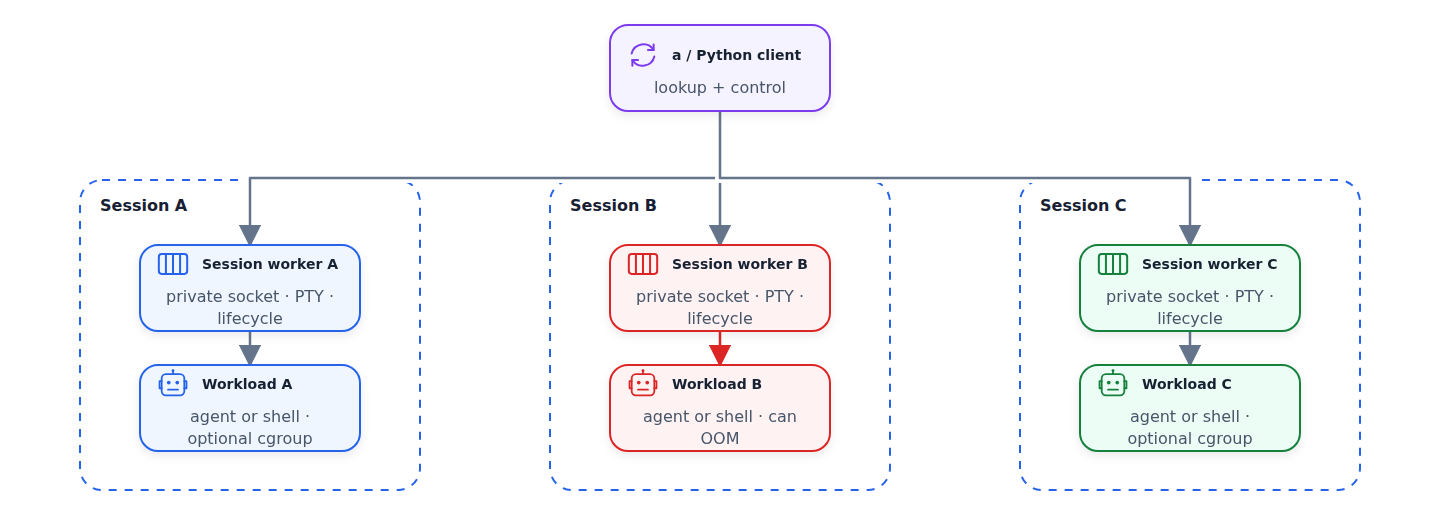
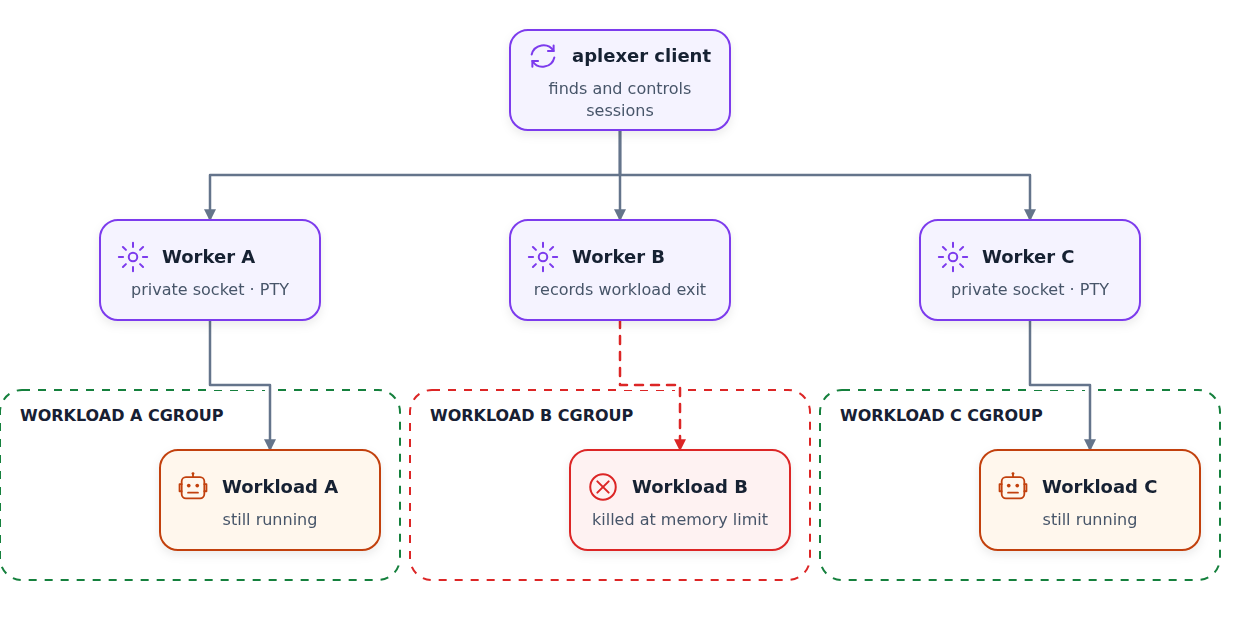
Save author-restored aplexer article draft

diff --git a/articles/work-in-progress/why-did-i-create-my-own-terminal-multiplexer.md b/articles/work-in-progress/why-did-i-create-my-own-terminal-multiplexer.md
@@ -10,16 +10,16 @@ status: draft
 
 tmux is a terminal multiplexer that I use to run agents on a remote machine. I wrote about using it in my article [The System I Built to Ship Code From a Phone](https://aishippingblog.com/p/the-system-i-built-to-ship-code-from).
 
-When you connect to a remote machine with ssh, the processes you launch are bound to your ssh session. That means when you disconnect, or the connection drops, the processes die together with the session. 
+When you connect to a remote machine with SSH, the processes you launch are bound to your SSH session. That means when you disconnect, or the connection drops, the processes die together with the session. 
 
-A terminal multiplexer is a tool that detaches the processes you start from the ssh session, so they can keep running after the disconnect. Screen and tmux are the most well-known terminal multiplexers, but tmux is more modern and generally preferred among developers. 
+A terminal multiplexer is a tool that detaches the processes you start from the SSH session, so they can keep running after the disconnect. Screen and tmux are the most well-known terminal multiplexers, but tmux is more modern and generally preferred among developers. 
 
-I've used tmux for ages but with agents running 24/7 on my remote dev box, it no longer works for me. To replace it, I created [aplexer](https://github.com/alexeygrigorev/aplexer). In this article I'll tell you why. 
+I've used tmux for ages, but with agents running 24/7 on my remote dev box, it no longer works for me. To replace it, I created [aplexer](https://github.com/PocketShell-io/aplexer). In this article I'll tell you why.
 
 In particular, we'll cover:
 
 - What tmux is and how it works
-- Advantages and disadvantages of tmux 
+- Advantages and disadvantages of tmux
 - My tool tmuxctl to make tmux easier to manage
 - Aplexer as the solution to my current problems with tmux
 
@@ -31,7 +31,7 @@ The [tmux README](https://github.com/tmux/tmux) says:
 
 > tmux is a terminal multiplexer: it enables a number of terminals to be created, accessed, and controlled from a single screen. tmux may be detached from a screen and continue running in the background, then later reattached.
 
-It's a layer between you (your ssh session) and the processes you run. 
+It's a layer between you (your ssh session) and the processes you run.
 
 After I ssh into my devbox, I can start a tmux session:
 
@@ -43,7 +43,7 @@ Under the hood, multiple things happen:
 
 - My terminal starts a tmux client process
 - The client connects to a tmux server
-- If the server is not running, the command starts it 
+- If the server is not running, the command starts it
 
 The client connects to the server through a Unix-domain socket. The server creates a session and a PTY for that session. 
 
@@ -66,18 +66,16 @@ If we take the terminal app in Ubuntu, each tab in the app is a PTY. When I star
 
 A similar thing happens when we use ssh. The ssh client on our computer connects to the ssh server (sshd) on the remote machine, and sshd creates a PTY. The master is on the sshd side, and the slave is on the shell side.
 
-
 <figure>
   <img src="../../assets/images/why-did-i-create-my-own-terminal-multiplexer/ssh-pty-flow.png" alt="An SSH connection crosses from an SSH client on the local computer to sshd on the remote devbox, where sshd opens a separate PTY for Bash">
   <figcaption>SSH uses a separate PTY on the remote machine.</figcaption>
 </figure>
 
-When ssh disconnects, sshd stops the PTY that was created for this session, and all the processes die with it.
+When SSH disconnects, sshd stops the PTY that was created for this session, and all the processes die with it.
 
 Terminal multiplexers add one more hop: tmux server creates another PTY, and the shell that's connected to that PTY is the parent for all these processes.
 
-That's why the processes that we start in tmux continue running - they are attached to tmux server's PTY. Only the tmux client dies when the ssh connection drops. 
-
+That's why the processes that we start in tmux continue running - they are attached to tmux server's PTY. Only the tmux client dies when the ssh connection drops.
 
 <figure>
   <img src="../../assets/images/why-did-i-create-my-own-terminal-multiplexer/tmux-client-server.png" alt="After an SSH disconnect, sshd, its PTY, and the tmux client stop while the tmux server keeps its pane PTY and agent running">
@@ -88,8 +86,8 @@ There are multiple important organizational primitives in tmux:
 
 - A pane is the basic unit of tmux. Each pane has its own PTY.
 - A window has one or multiple panes.
-- A session holds one or multiple windows. 
-- The tmux server can have many sessions. 
+- A session holds one or multiple windows.
+- The tmux server can have many sessions.
 
 <figure>
   <img src="../../assets/images/why-did-i-create-my-own-terminal-multiplexer/tmux-multiple-panes.png" alt="A tmux window with three panes: htop monitors the devbox, an agent session runs in the top-right pane, and a shell lists other sessions in the bottom pane">
@@ -102,25 +100,23 @@ When I create a new session with a command like this:
 tmux new-session -s ai-shipping-labs
 ```
 
-It creates a session with one window with one pane inside it, and this pane has a PTY. I can add a new window or split the current one horizontally or vertically into multiple panes, and each pane would be a separate PTY. 
+It creates a session with one window with one pane inside it, and this pane has a PTY. I can add a new window or split the current one horizontally or vertically into multiple panes, and each pane would be a separate PTY.
 
-I usually don't do that, though. I use tmux mostly for keeping my agents running when I disconnect, so I don't need any window arrangement capabilities. For me it's always one session - one PTY, and different agents are running in different sessions. 
+I usually don't do that, though. I use tmux mostly for keeping my agents running when I disconnect, so I don't need any window arrangement capabilities. For me it's always one session - one PTY, and different agents are running in different sessions.
 
 <figure>
   <img src="../../assets/images/why-did-i-create-my-own-terminal-multiplexer/tmux-architecture.png" alt="One tmux server fans out to three sessions, each with one pane, one PTY, and an agent or shell">
   <figcaption>I use one pane per session, so each agent gets its own PTY.</figcaption>
 </figure>
 
-
 We can do a lot of things programmatically with tmux. We can create all these windows and panes using the tmux CLI, or we can send input to any of the panes as if it was typed by a human.
-In fact, the screenshot above came from [this script](https://gist.github.com/alexeygrigorev/8df0400d8814914291487ada31b4a119).
+In fact, the earlier screenshot with three panes came from [this script](https://gist.github.com/alexeygrigorev/8df0400d8814914291487ada31b4a119).
 
-Because of that, with a bit of scripting, you can teach agents running in different tmux sessions talk to each other.
-
+Because of that, with a bit of scripting, you can teach agents running in different tmux sessions to talk to each other.
 
 ## Problems with tmux
 
-I like tmux, but as I started running more and more agents, session management became more difficult. 
+I like tmux, but as I started running more and more agents, session management became more difficult.
 
 I really struggle with the CLI. The commands are:
 
@@ -134,9 +130,9 @@ I always forget these commands. Typing all that, even with autocomplete, is alwa
 
 Also, you have to remember that `-s` is for new session and `-t` is for attach. To make it even more confusing, `new-session` also has the `-t` parameter, but it's not the same as `-s` (it groups the new session with an existing one).
 
-Eventually I solved this problem with [tmuxctl](https://github.com/alexeygrigorev/tmuxctl) - a wrapper aroud tmux. 
+Eventually I solved this problem with [tmuxctl](https://github.com/alexeygrigorev/tmuxctl) - a wrapper around tmux.
 
-I created an executable `tmuxctl` and an alias `t` for it to save typing time. With it, I can simply run 
+I created an executable `tmuxctl` and an alias `t` for it to save typing time. With it, I can simply run
 
 ```bash
 t -
@@ -148,41 +144,42 @@ It will:
 - name the session after the directory
 - if a session already exists, attach to it
 
-If I run just `t` without any arguments, I'll see the list of sessions ordered by creation time.
+If I run just `t` without any arguments, I'll see a numbered list of recent sessions:
 
-
+```text
+IDX  SESSION               CREATED
+1    codex                 2026-04-03 15:56:59
+2    backend-worker        2026-04-03 15:22:10
+3    docs                  2026-04-03 14:10:31
 ```
-TODO: add example
-```
 
-And if I want to connect to any particular session from that list, I simply run 
+And if I want to connect to any particular session from that list, I simply run
 
-```
-t 8
+```bash
+t 2
 ```
 
 That made the process more convenient and also saved a lot of time when jumping between sessions.
 
-
-## OOM and cgroups 
+## OOM and cgroups
 
 But there's another problem with tmux - its server is its single point of failure.
 
-On my devbox, I run many things in parallel. 
+On my devbox, I run many things in parallel.
 
-At the same time, it could be running 
+At the same time, it could be:
 
-- compiling a project in Rust (like [Codex-ZCode bridge](https://github.com/alexeygrigorev/codex-zcode/))
-- running Android emulator tests for [PocketShell](https://github.com/PocketShell-io/pocketshell)
-- running e2e tests with Playwright for [AI Shipping Labs](https://aishippinglabs.com/)
+- Compiling a project in Rust (like [Codex-ZCode bridge](https://github.com/alexeygrigorev/codex-zcode/))
+- Running Android emulator tests for [PocketShell](https://github.com/PocketShell-io/pocketshell)
+- Running e2e tests with Playwright for [AI Shipping Labs](https://aishippinglabs.com/)
 
-If I'm unlucky, and all these things can run exactly at the same time, my machine runs out of memory. 
+If I'm unlucky and all these things run at the same time, my machine runs out of memory. 
 
 It's usually not a problem for Android emulators or Playwright - they are simply killed when it happens.
 
 But if I run something like `cargo clippy` (a linter in Rust), it's more dangerous.
 
-Not only OOM can kill `cargo`, but also bring down the agent that's running it, the shell that's running the agent, the session that's running the shell, and the tmux server too. When tmux server dies, all the other sessions go with it.
+Not only OOM can kill the linter process, but also bring down the agent that's running it, the shell that's running the agent, the session that's running the shell, and the tmux server too. When tmux server dies, all the other sessions go with it.
 
 So an OOM in Rust can wipe out all the tmux sessions on the machine. All of them.
 
@@ -191,7 +188,7 @@ So an OOM in Rust can wipe out all the tmux sessions on the machine. All of them
   <figcaption>If an OOM kills the tmux server, all three sessions lose their terminals.</figcaption>
 </figure>
 
-OOM kill doesn't propagate from cargo to tmux. There's a process in the kernel called "OOM killer" that decides who should receive `SIGKILL` when OOM happens. Usually it's the process that caused the actuall OOM. But [sometimes](TODO: link tmux#4151) it may decide to kill the entire memory cgroup where it's working, which includes the process, the shell, and the tmux server (brinding down all the sessions too). 
+An OOM kill doesn't propagate from cargo to tmux. There's a process in the kernel called "OOM killer" that decides who should receive `SIGKILL` when OOM happens. Usually it's the process that caused the actuall OOM. But [sometimes](https://github.com/tmux/tmux/issues/4151) it may decide to kill the entire memory cgroup where it's working, which includes the process, the shell, and the tmux server (brinding down all the sessions too). 
 
 A cgroup (control group) is a container around a group of processes that Linux manages like a single unit. It's used to limit the resources each group can use like memory, CPU, and the number of processes. If a process in the group exceeds its memory limit, the kernel kills only the processes inside that group, and everything else outside keeps running.
 
@@ -199,7 +196,7 @@ So a natural solution is to [wrap up](https://github.com/alexeygrigorev/rustkyll
 
 However, you can't know in advance which process will cause the OOM collapse, so it kept happening to me over and over again.
 
-Eventually, I decided to run each tmux session in its own cgroup. Since I was already using tmuxctl as a wrapper around tmux, [I added support for cgroups there](TODO find the code that does it - maybe in commit history).
+Eventually, I decided to run each tmux session in its own cgroup. Since I was already using tmuxctl as a wrapper around tmux, [I added support for cgroups there](https://github.com/alexeygrigorev/tmuxctl/blob/6a20db9ac1b42b5c01fbce1e27fadcbda4fe0605/tmuxctl/robust.py#L326-L347).
 
 It worked well, but unfortunately it still didn't solve the main problem - the tmux server was still the single point of failure. Even with each session running in a cgroup, the server would still die occasionally, bringing down all the sessions along with it.
 
@@ -207,10 +204,12 @@ After consulting Fable, we did the next logical thing: started a separate server
 
 All that logic went into tmuxctl, which by that time became a Frankenstein monster, not just a simple wrapper around tmux CLI.
 
-I got really tired of patching it. So I opened ChatGPT and asked "how difficult is it to write own terminal multiplexer?". It said it would be a few weeks of work. Then turned on the pro mode and asked it to implement it. It thought for 10 minutes and gave me a first verstion written in Rust (which kind of worked).
+I got really tired of patching it. So I opened ChatGPT and asked "how difficult is it to write my own terminal multiplexer?". It said it would be a few weeks of work. Then I turned on pro mode and asked it to implement it. It thought for 10 minutes and gave me a first version written in Rust (which kind of worked).
 
-![alt text](image.png)
-My brain dump captured via dictation mode that became the first vrsion of aplexer
+<figure>
+  <img src="../../assets/images/why-did-i-create-my-own-terminal-multiplexer/first-prompt.png" alt="My dictated ChatGPT prompt asking for a Linux terminal multiplexer in Rust that keeps other sessions alive when one runs out of memory">
+  <figcaption>My brain dump, captured via dictation, that became the first version of aplexer.</figcaption>
+</figure>
 
 I decided to call it "aplexer" which stands for "Agent Multiplexer". "Amux" was already taken - I counted 3 products with this name, and none of them were doing what I needed. It's very difficult to find a name that's available on PyPI these days!
 
@@ -227,43 +226,44 @@ Plus I wanted to have the same features that tmux had:
 - Working after ssh disconnects
 - Attaching and detaching sessions
 - Sending input to each session
-- Seeing the history 
+- Seeing the history
 
 The main focus was on running agents, so I also wanted
 
-- Which folder ("workspace") this session is running in
-- What's running inside each session - which agent
+- Seeing which folder ("workspace") each session is running in
+- Seeing what's running inside each session - which agent
 - Letting agents send messages to each other natively
 
 I always follow the [spec-driven development approach](https://aishippingblog.com/p/ai-native-development-specifications), so I discussed the requirements with ChatGPT, got the [first specification](https://github.com/PocketShell-io/aplexer/blob/main/spec.md) out, and started developing it.
 
-## Eat your own dog food 
+## Eat your own dog food
 
-I don't know why this approach is called this way. But the idea is to start using the tool you develop as soon as possible.
+I don't know why this approach is called that. But the idea is to start using the tool you develop as soon as possible.
 
-This approach works extremely well and forces you to find and fix all the inconvenient points. 
+This approach works extremely well and forces you to find and fix all the inconvenient points.
 
-That's why the focus on v0 of aplexer was to let me start using it instead of tmux, and then iterate and polish all the rough edges. 
+That's why the focus for v0 of aplexer was to let me start using it instead of tmux, and then iterate and polish all the rough edges.
 
 The main acceptance criteria for v0 were:
 
 - I can use it for running agents
 - Agents run in detachable sessions that don't stop after ssh disconnect
-- OOM in one session doesn't affect any other session  
+- OOM in one session doesn't affect any other session
 
-The first test that I implemented was causing OOM for one process and making sure the others aren't affected (TODO: find it).
+The first test that I implemented was causing OOM in one session and making sure the others weren't affected. The [OOM isolation test](https://github.com/PocketShell-io/aplexer/blob/main/tests/oom_isolation.rs) starts three sessions with 128 MB memory limits, exhausts the memory in session B, and checks that sessions A and C still respond to commands.
 
 It took one week to have a stable version that works well, and then another couple of weeks to polish and add the features that I needed. (ChatGPT was right!)
 
-I like short aliases, so I use `a` for aplexer in my terminal. 
+I like short aliases, so I use `a` for aplexer in my terminal.
 
-![alt text](image-1.png)
-
+<figure>
+  <img src="../../assets/images/why-did-i-create-my-own-terminal-multiplexer/workspace-list.png" alt="Aplexer lists workspaces with agent sessions, including Claude, Codex, Grok, and OpenCode, with running and idle states">
+  <figcaption>My sessions grouped by workspace, with the agent and its current state.</figcaption>
+</figure>
 
 By now it has fully replaced tmux in my workflow, and I haven't had a problem of OOM wiping out all my sessions since then.
 
-
-## aplexer's architecture
+## Aplexer's architecture
 
 Each session in aplexer is independent from each other. Ther's no shared server. Insetad, each session has a PTY worker assigned only for that session.
 
@@ -278,43 +278,62 @@ aplexer keeps track of all the sessions by storing this information on filesyste
 
 I don't need panes, windows and other things, so for me one session is one PTY. But I still want to organize the sessions. For me I use workspaces to organize sessoins - this is the folder where the agents are running. When I run `a`, I get a list of all the workspaces and a list of sessions in each
 
-![alt text](image-2.png)
+<figure>
+  <img src="../../assets/images/why-did-i-create-my-own-terminal-multiplexer/workspace-detail.png" alt="Workspace 7, dapier, contains six sessions including designer at index 2; community-base and ai-shipping-labs appear below it">
+  <figcaption>A workspace can contain several sessions, each with its own tag and agent.</figcaption>
+</figure>
 
+Now if I want to attach to any of the sessions, I can type
 
-Now if I want to attach to any of the sessoins, I can type
-
-```
+```bash
 a 7 2
 ```
 
 This will attach to the workspace number 7 (`~/git/dapier`), session 2 (`designer`). I can refer to them by names too, but that's too much to type.
 
-## Agent-Native Multiplexer
+## Making it agent-aware
 
-I didn't just want to create a terminal multiplexer that's immute too OOM kills. I also wanted to make it agent-aware.
+I also wanted aplexer to understand the agents running inside it.
 
-So it has a few more things that are specific to agents:
+It shows which agent is running in each session, whether it is running, waiting, or idle, and when it last produced activity. For supported agents, `a init` installs hooks so the agent can report its state. When there is no explicit report, terminal activity provides a fallback - a silent computation can look idle, so this isn't a perfect signal.
 
-- I know which agent is running in each session
-- I also can detect if agents are idle or working
-- I can see when they started 
-- It's possible to sort the sessions workspaces using these things 
-- I can start a new agent session by just typing `TODO - what`
+I can sort the workspace list by recent activity with `a list --sort activity`. And I can start or attach to a Codex session tagged `review` in the current directory with:
 
-Plus, agents have special primitives to send input to each other:
-
-```
-TODO
+```bash
+a - codex review
 ```
 
-And they have a message bus for async coordination:
+If I want a fresh session every time, I use `a new --engine codex --tag review` instead. These shortcuts and the state hooks are documented in the [README](https://github.com/PocketShell-io/aplexer/blob/main/README.md).
 
+Agents can send input to another session and read its terminal output without attaching:
+
+```bash
+a send review "Please review the current diff and report any bugs." --enter
+a capture review --screen
 ```
-TODO
+
+`send` types directly into the target terminal, so the sender needs to check that the other agent is ready for input. Sending into an agent that's busy can interfere with what it's doing.
+
+For asynchronous coordination, sessions in the same workspace share a durable mailbox:
+
+```bash
+a message send --to review "Implementation is ready. Please review the diff."
+a message send --all "The tests pass. I'm ready for review."
 ```
 
-TODO: screenshot
+The recipient reads its inbox when it's ready. Reading a message doesn't acknowledge it; the agent explicitly marks it handled using the ID returned by the inbox:
 
+```bash
+a message inbox
+a message ack <message-id>
+```
+
+These messages are stored on disk, so they don't depend on a shared messaging daemon. An inbox message by itself doesn't submit a prompt to the recipient's terminal. This lets agents exchange updates without typing into each other's active prompts. The [message command implementation](https://github.com/PocketShell-io/aplexer/blob/main/src/bin/aplexer/message_commands.rs) handles sending, reading, and acknowledging them.
+
+<figure>
+  <img src="../../assets/images/why-did-i-create-my-own-terminal-multiplexer/message-inbox.png" alt="Local aplexer CLI demo sends a message from builder to review, reads it from review's inbox, acknowledges it, and shows the empty inbox">
+  <figcaption>Output from a local CLI demo with two shell sessions: send, read, and acknowledge a message.</figcaption>
+</figure>
 
 ## Agents talking to each other through aplexer
 
@@ -338,12 +357,13 @@ The agent then ran `aplexer message reply` with a push notice, and the command r
   <figcaption>The agent replies after coordinating an isolated worktree integration</figcaption>
 </figure>
 
-
 ## Conclusion
 
 I didn't create a terminal multiplexer because tmux is bad. It's excellent for what it does, but it stopped working for my particular use case - running agents on a devbox.
 
-aplexer is my smaller, more specialized, Linux-specific attempt to make that model explicit.
+aplexer gives each of my sessions its own worker and lets me manage agents by workspace, tag, and state. That fits how I work now.
+
+If you run agents on a Linux devbox and want to try it, the [README](https://github.com/PocketShell-io/aplexer/blob/main/README.md) has installation instructions and the full command reference.
 
 ## Sources
 
